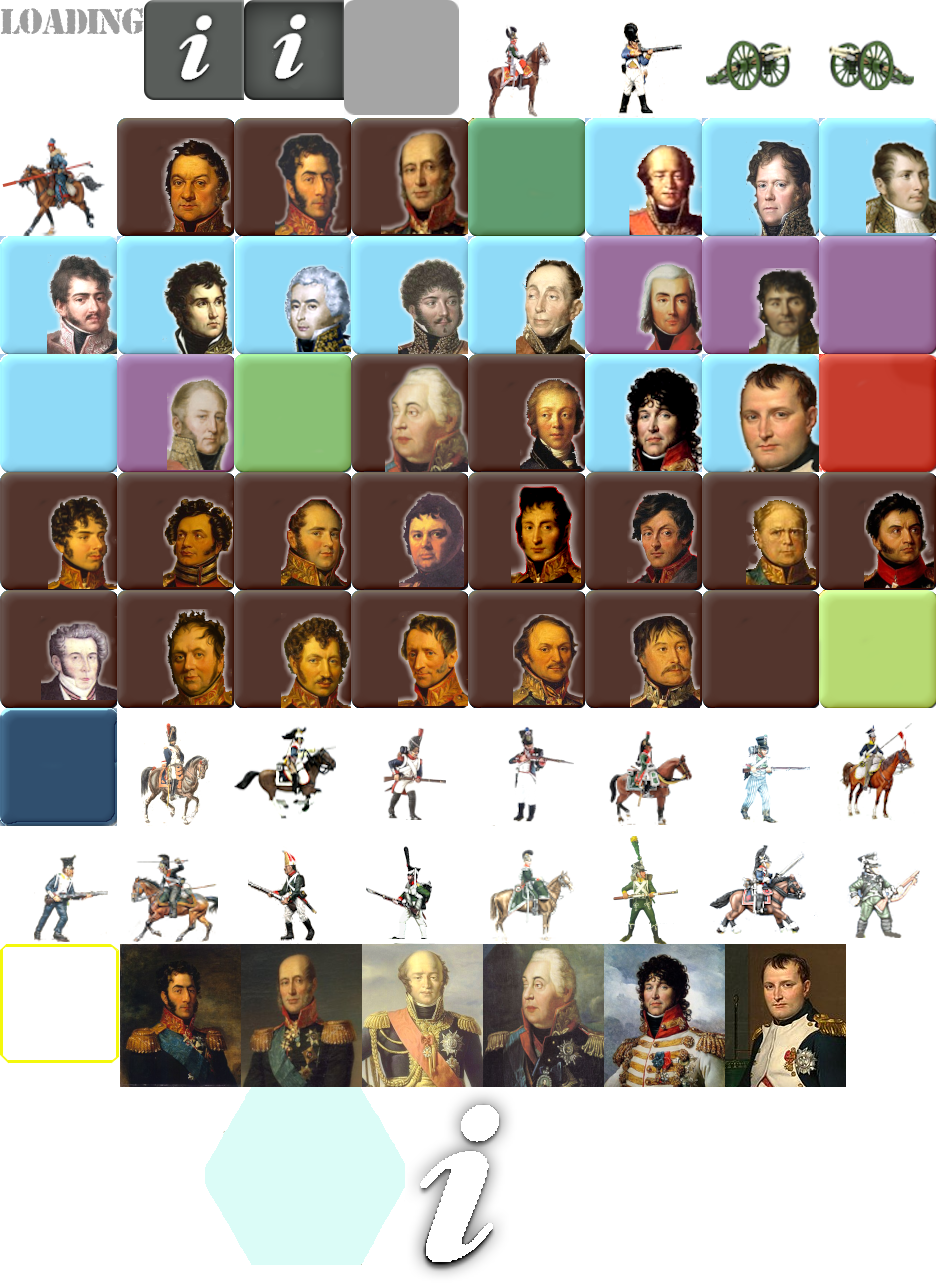
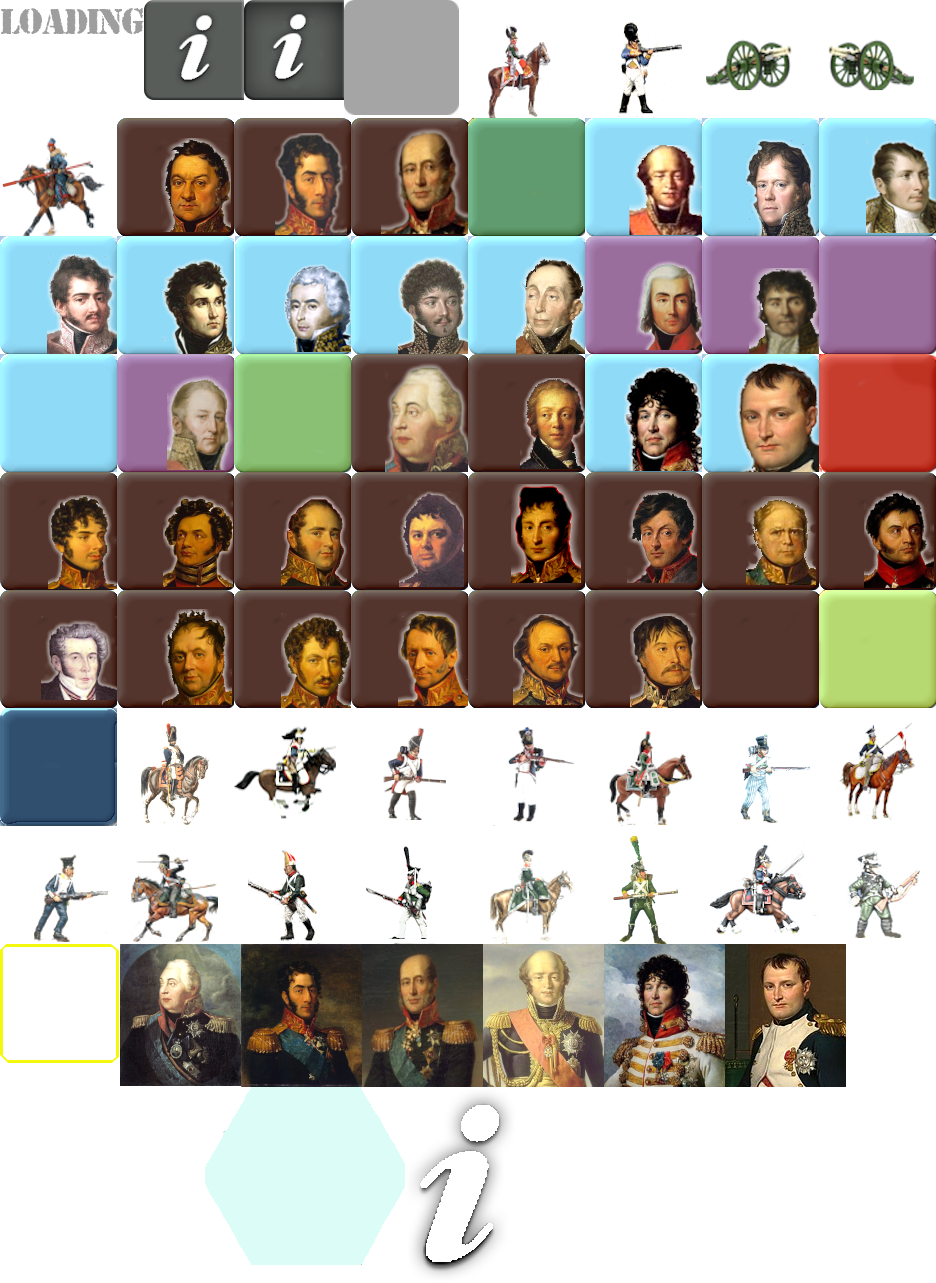
Refactor: Improve next phase warning and adjust UI elements
-   **BottomMenu:** Modified the `setPhaseData` method to accept a title and message for phase warnings, enhancing the clarity of the warning displayed to the player. The `show` method in `WinText` was updated to reflect these changes.
-   **DoCommand:** Refactored the command handling to include localization support and to display phase change warnings, using phase title and messages in bottom menu and winc.
-   **Counter.txt:** Repositioned the Kutuzov, bagration, barclay and davout counters for proper arrangement.
-   **Language.properties:** Updated the warning message (`choosenocommand`) to clarify that leaving officers unassigned will reduce the number of effective units. Added new key for next phase title.
-   **FontFactory:** Added new BitmapFont `titleFontHelp` for use in WinText class
-   **SplashScreen:** Changed VisUI scale to x2, and title Align to center.
-   **WinText:** Added new title label and change colors. Updated show to use title and message.
- **Counter.png:** Updated with the above coordinate changes.

Changed region(s): [[0.1239, 0.7171, 0.6506, 0.873]]

diff --git a/core/src/brunibeargames/UI/WinText.java b/core/src/brunibeargames/UI/WinText.java
@@ -1,6 +1,7 @@
 package brunibeargames.UI;
 
 import com.badlogic.gdx.Gdx;
+import com.badlogic.gdx.graphics.Color;
 import com.badlogic.gdx.scenes.scene2d.Actor;
 import com.badlogic.gdx.scenes.scene2d.InputEvent;
 import com.badlogic.gdx.scenes.scene2d.ui.Cell;
@@ -21,18 +22,21 @@ public class WinText {
     Cell cell;
     float height = Gdx.graphics.getHeight();
     float width = Gdx.graphics.getWidth();
+    Label labelTitle;
 
     public WinText(){
         instance = this;
         i18NBundle = GameMenuLoader.instance.localization;
-        window = new VisWindow("");
+        window = new VisWindow("Warning");
         window.setVisible(false);
+        labelTitle = window.getTitleLabel();
+        labelTitle.getStyle().font.setColor(Color.YELLOW);
         float height = Gdx.graphics.getHeight();
         float width = Gdx.graphics.getWidth();
 //        window.setHeight(height -40);
 //        window.setWidth(height - 40);
-        window.setHeight(600);
-        window.setWidth(600);
+      //  window.setHeight(600);
+      //  window.setWidth(600);
         window.centerWindow();
         window.addListener(new ClickListener() {
             @Override
@@ -57,16 +61,21 @@ public class WinText {
         });
         Label.LabelStyle lab = new Label.LabelStyle();
         lab.font = Fonts.getFont24();
+        lab.fontColor = Color.YELLOW;
         label = new Label("", lab);
         Borodino.instance.guiStage.addActor(window);
 
     }
-    public void show(String keyText){
+    public void show(String title,String message){
         window.setModal(true);
         window.setVisible(true);
         window.toFront();
-        label.setText(i18NBundle.format(keyText));
+        labelTitle.setText(title);
+        labelTitle.getStyle().font.setColor(Color.YELLOW);
+        label.setText(message);
         window.add(label);
+        window.pack();
+        window.centerWindow();
     }
     public void hide(){
         window.setVisible(false);

diff --git a/core/src/brunibeargames/DoCommand.java b/core/src/brunibeargames/DoCommand.java
@@ -2,6 +2,7 @@ package brunibeargames;
 
 import com.badlogic.gdx.Gdx;
 import com.badlogic.gdx.math.Vector2;
+import com.badlogic.gdx.utils.I18NBundle;
 
 import java.util.ArrayList;
 
@@ -15,10 +16,15 @@ public class DoCommand {
     ArrayList<Commander> arrCommanders = new ArrayList<Commander>();
     ArrayList<WinCommand> arrWinCommand = new ArrayList<WinCommand>();
     ArrayList<CommanderOfficers> arrCommanderOfficers = new ArrayList<CommanderOfficers>();
+    boolean needDivisions = false;
+    boolean needRandom= false;
+    I18NBundle i18NBundle;
 
 
     DoCommand() {
         instance = this;
+        i18NBundle = GameMenuLoader.instance.localization;
+
     }
 
     /**
@@ -28,7 +34,11 @@ public class DoCommand {
      * * 1. display all commanders and choose the officers to allocate command use wincommand
      *   2. display all divisions that can be activated and process
      *   3. display number of officers and see if we can throw dice to activate
-     *  If there is only one commander then just activate IF THERE IS ONLY
+     *
+     *  If there is only one commander then
+     *   1. display all commanders and choose the officers to allocate command use winc
+     *   2. display all divisions that can be activated and process
+     *
      */
     public void start() {
         BottomMenu.instance.showNextPhase();
@@ -50,7 +60,11 @@ public class DoCommand {
         if (arrCommanders.size() > 1) {
             setupCommandChoose();
             BottomMenu.instance.setWarningPhaseChange(true);
-            BottomMenu.instance.setPhaseKey("choosenocommand");
+            String message= i18NBundle.get("choosenocommand");
+            String title = i18NBundle.get("nextphasebutton");
+            BottomMenu.instance.setPhaseData(title, message);
+            needDivisions = true;
+            needRandom = true;
             return;
         }
         if (arrCommanders.size() == 1) {

diff --git a/core/src/brunibeargames/UI/BottomMenu.java b/core/src/brunibeargames/UI/BottomMenu.java
@@ -49,10 +49,10 @@ public class BottomMenu {
     private Group group;
     Stage stage;
     static TextureAtlas textureAtlas;
-    private String phaseKey;
+    private String phaseMessage;
     private String inquiryKey;
     private String backKey;
-
+    private String phaseTitle;
 
 
     public BottomMenu() {
@@ -113,7 +113,7 @@ public class BottomMenu {
                         return;
                     }else{
                         isWarned = true;
-                        WinText.instance.show(phaseKey);
+                        WinText.instance.show(phaseTitle,phaseMessage);
                         return;
                     }
                 }
@@ -239,8 +239,9 @@ public class BottomMenu {
         this.backKey = backKey;
     }
 
-    public void setPhaseKey(String phaseKey) {
-        this.phaseKey = phaseKey;
+    public void setPhaseData(String title, String message) {
+        this.phaseMessage = message;
+        this.phaseTitle= title;
     }
 
     public void setWarningPhaseChange(boolean warningPhaseChange) {

diff --git a/core/src/brunibeargames/FontFactory.java b/core/src/brunibeargames/FontFactory.java
@@ -8,6 +8,7 @@ import com.badlogic.gdx.graphics.g2d.freetype.FreeTypeFontGenerator;
 public class FontFactory {
     static public FontFactory instance;
     public final BitmapFont littleTitleFont;
+    public final BitmapFont titleFontHelp;
     public BitmapFont titleFontRussian;
     public BitmapFont largeFont;
     public BitmapFont largeFontWhite;
@@ -102,6 +103,13 @@ public class FontFactory {
         parameter.borderWidth = 3;
         titleFontRussian= generator.generateFont(parameter); // font size 11 pixelslargeFontWhite= generator.generateFont(parameter); // font size 11 pixels
 
+        parameter = new FreeTypeFontGenerator.FreeTypeFontParameter();
+        parameter.size = 36;
+        parameter.color = Color.WHITE;
+        parameter.genMipMaps = true;
+        //parameter.borderColor = Color.FOREST;
+        //parameter.borderWidth = 3;
+        titleFontHelp = generator.generateFont(parameter);
         generator.dispose();
     }
     public void dispose()

diff --git a/core/src/brunibeargames/SplashScreen.java b/core/src/brunibeargames/SplashScreen.java
@@ -239,9 +239,9 @@ public class SplashScreen {
                 img.addAction(Actions.fadeOut(.4f));
             }
             //          VisUI.load();            //	VisUI.load(VisUI.SkinScale.X2);
-            VisUI.load();
-            //       VisUI.load(VisUI.SkinScale.X2);
-            VisUI.setDefaultTitleAlign(Align.left);
+            //VisUI.load();
+            VisUI.load(VisUI.SkinScale.X2);
+            VisUI.setDefaultTitleAlign(Align.center);
 
 
 
